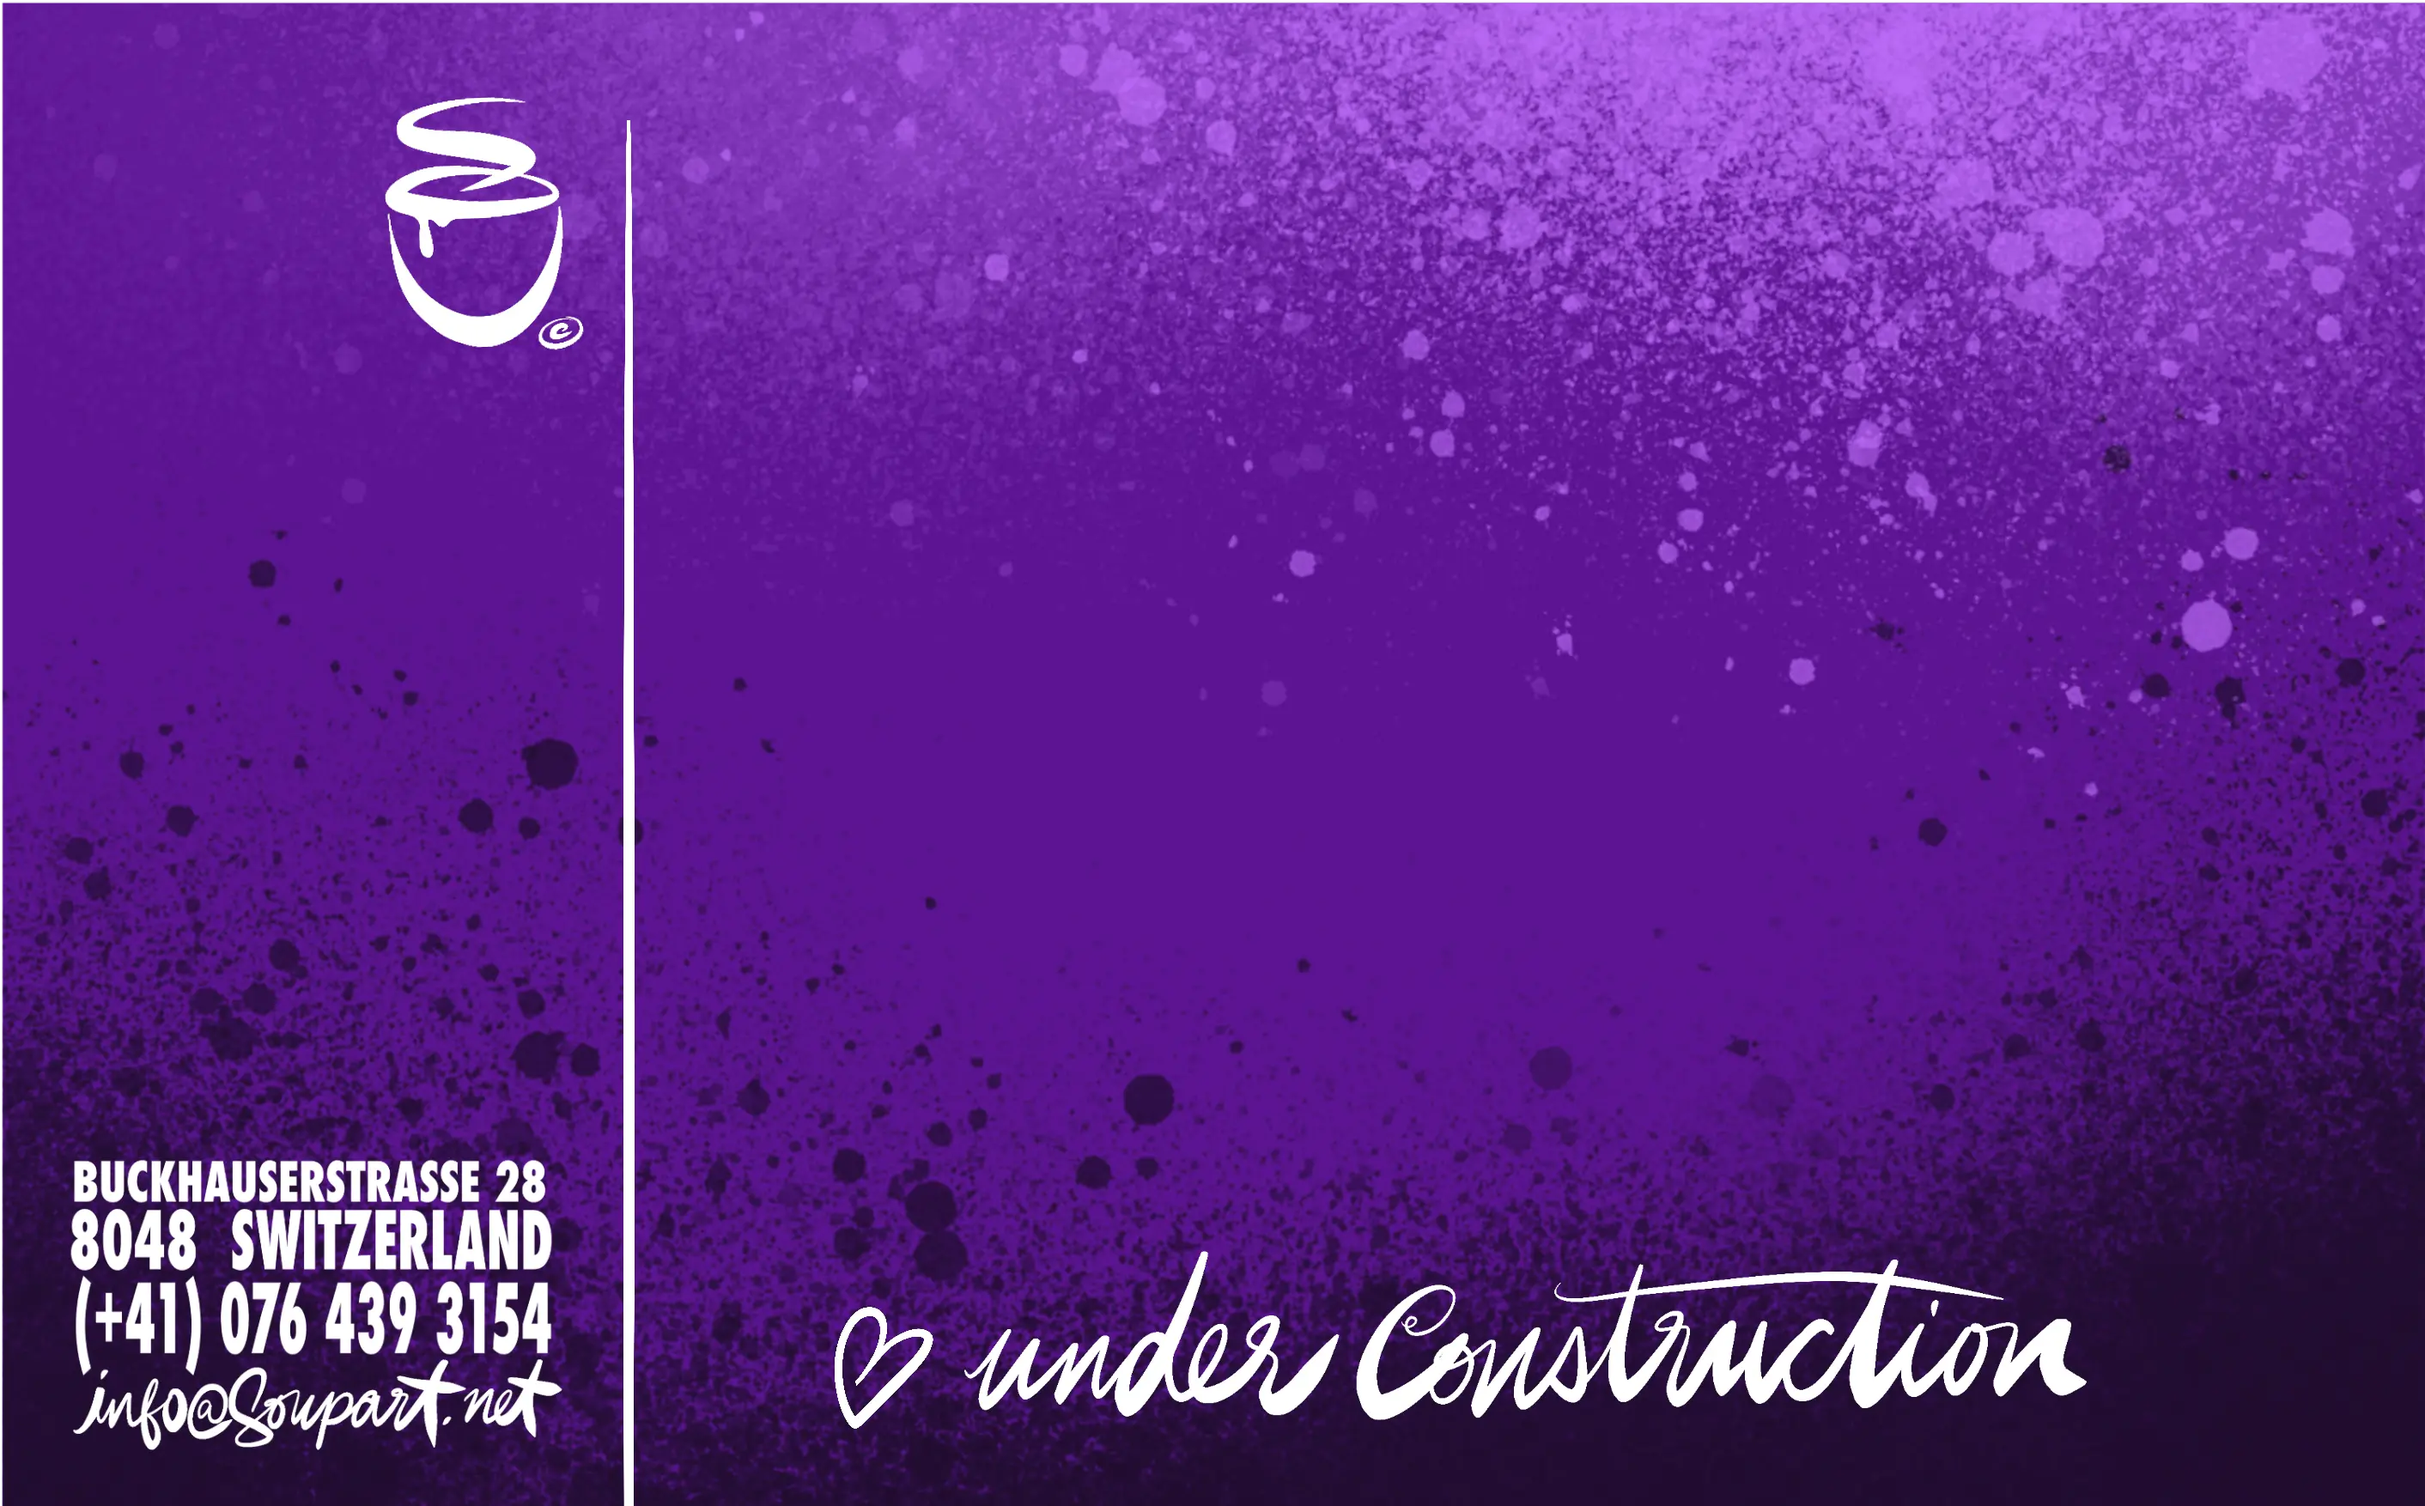
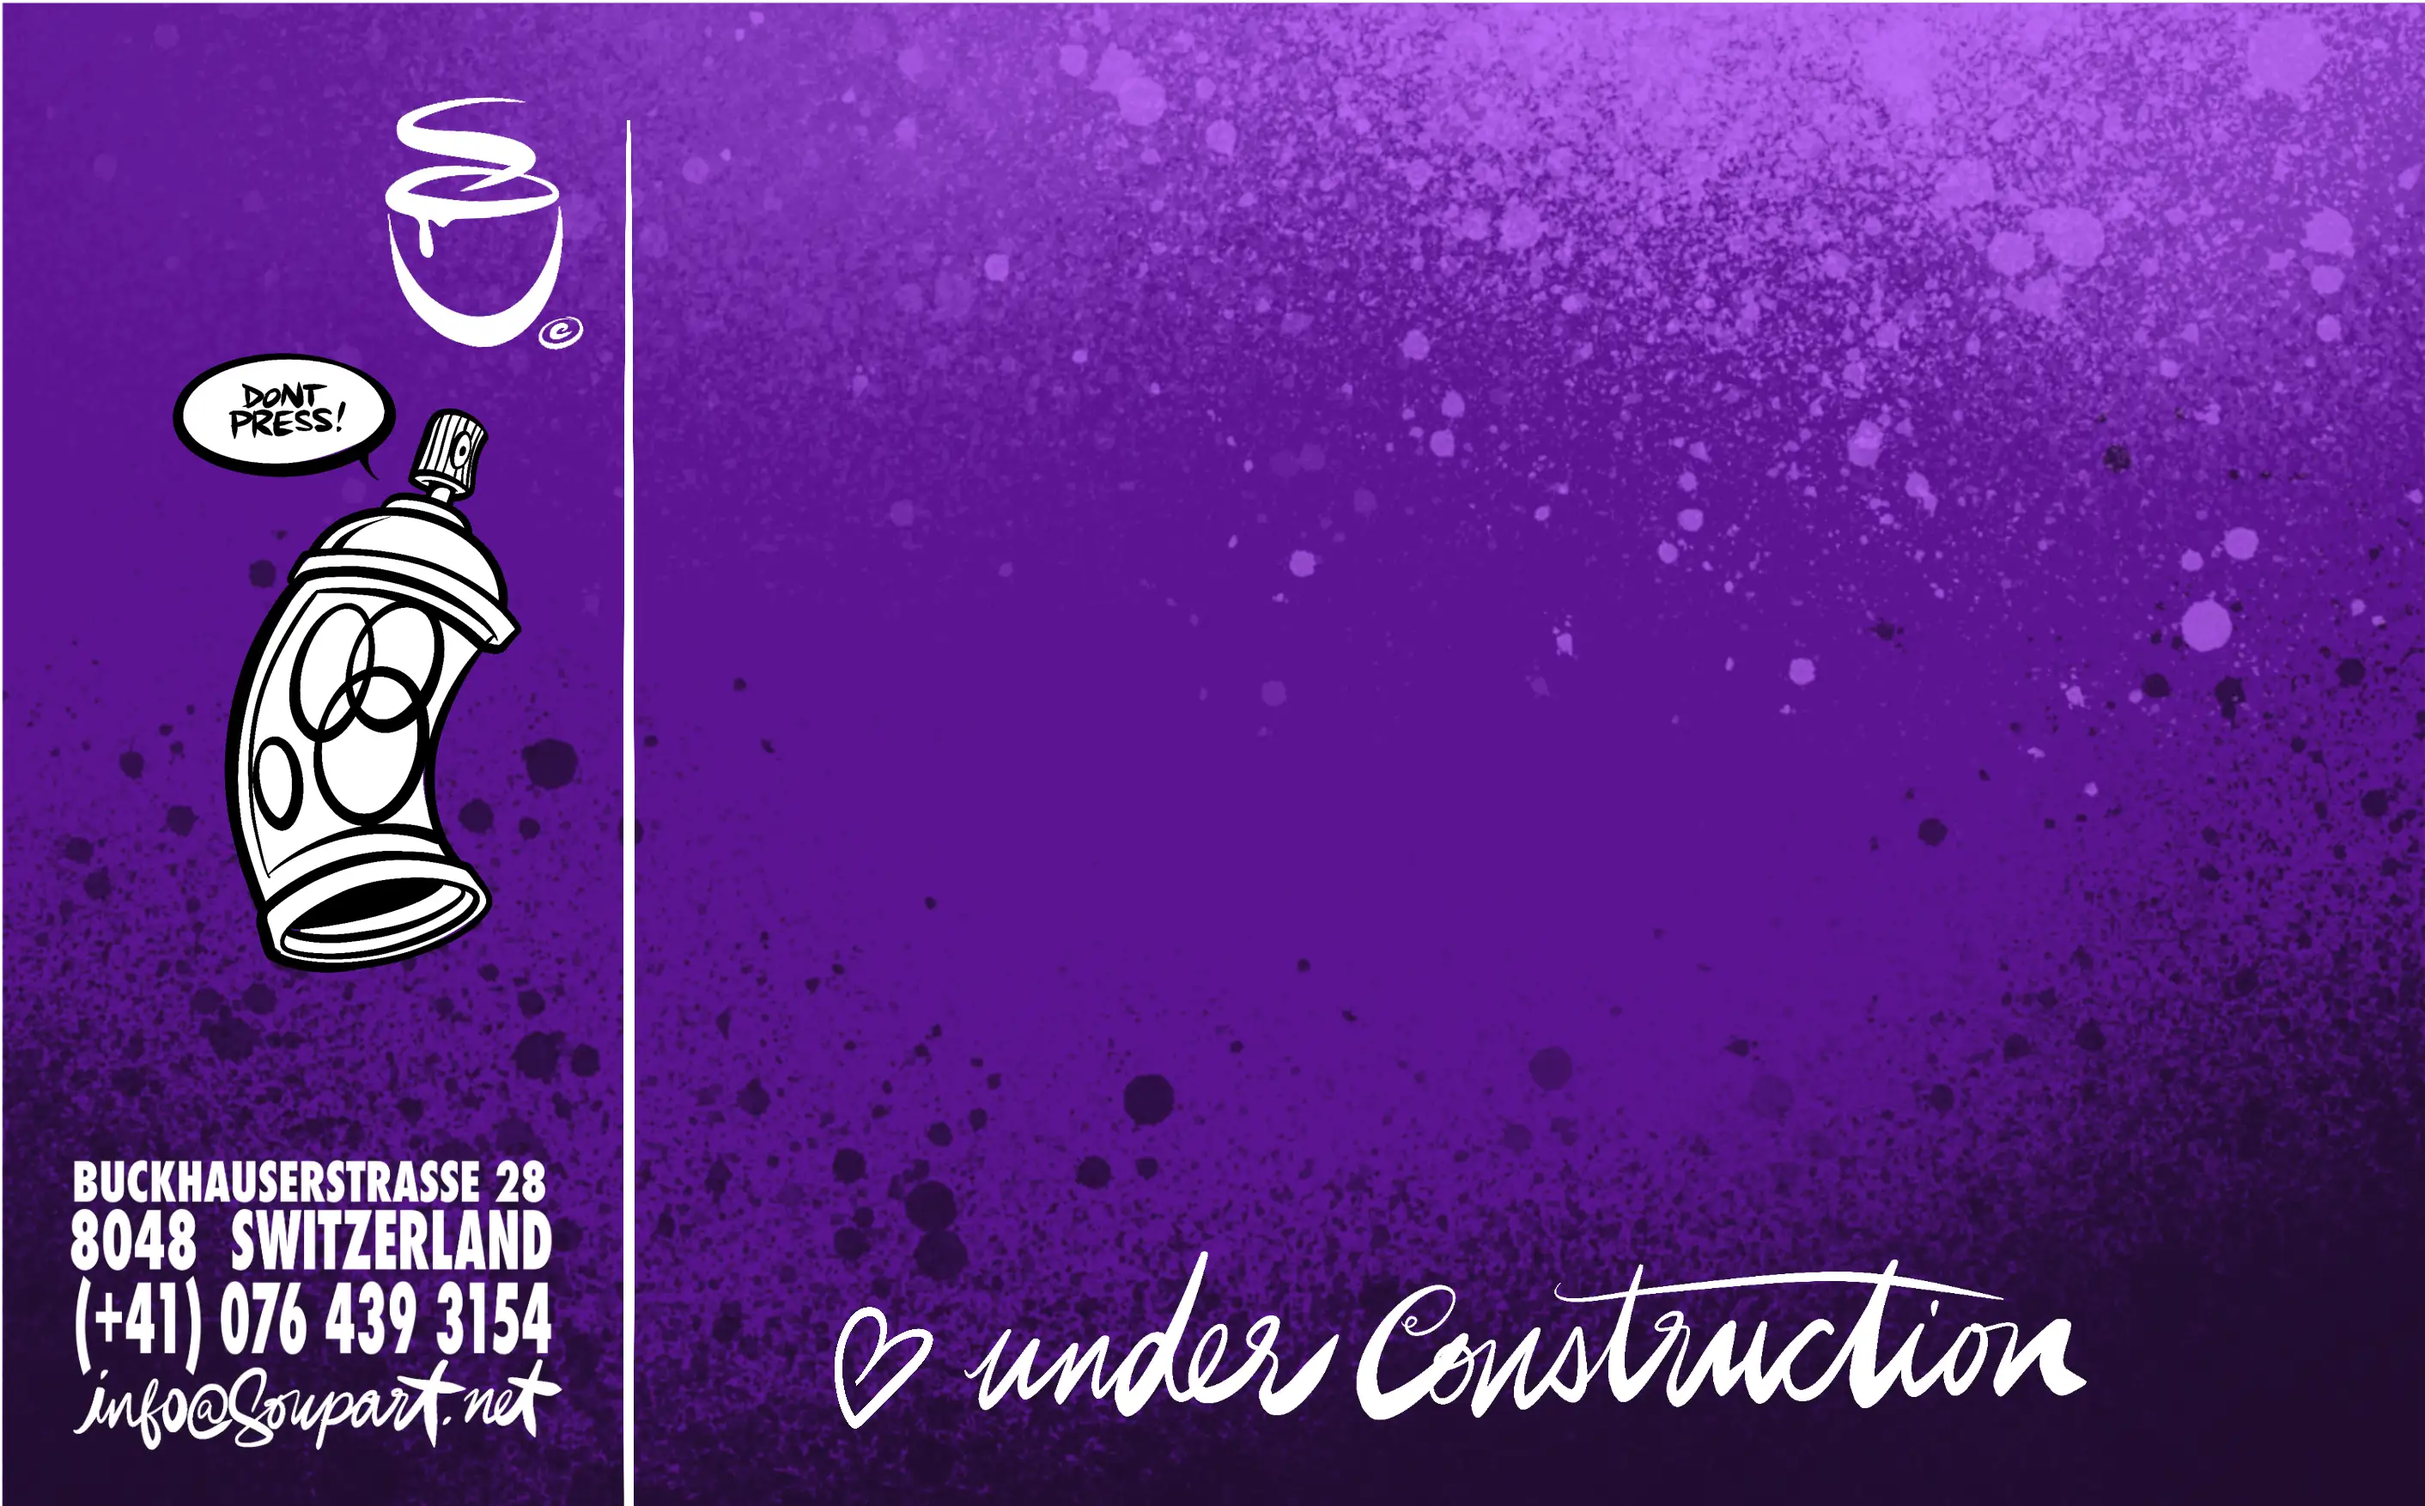
Final.

Changed region(s): [[0.0623, 0.2155, 0.2181, 0.6465]]

diff --git a/home.html b/home.html
@@ -5,10 +5,21 @@
     <title>Soup Art</title>
     <link rel="icon" type="image/x-icon" href="img/favicon.ico"/>
     <link rel="stylesheet" href="style/layout.css">
+    <link rel="preload" as="image" href="img/spray/0.webp">
+    <link rel="preload" as="image" href="img/spray/1.webp">
+    <link rel="preload" as="image" href="img/spray/2.webp">
+    <link rel="preload" as="image" href="img/spray/3.webp">
+    <link rel="preload" as="image" href="img/spray/4.webp">
+    <link rel="preload" as="image" href="img/spray/5.webp">
+    <link rel="preload" as="image" href="img/spray/6.webp">
+    <link rel="preload" as="image" href="img/spray/7.webp">
+    <link rel="preload" as="image" href="img/spray/8.webp">
+    <link rel="preload" as="image" href="img/spray/9.webp">
 </head>
 <body>
 <div class="image-container">
-    <img src="img/background.webp" alt="">
+    <img id="main-image" src="img/background.webp" alt="">
 </div>
+<script src="script/orientation/timer.js"></script>
 </body>
 </html>

diff --git a/script/orientation/timer.js b/script/orientation/timer.js
@@ -1,0 +1,17 @@
+const image = document.getElementById('main-image');
+const originalSrc = 'img/background.webp';
+let resetTimer = null;
+
+image.addEventListener('click', () => {
+    const randomIndex = Math.floor(Math.random() * 10);
+    image.src = `img/spray/${randomIndex}.webp`;
+
+    if (resetTimer) {
+        clearTimeout(resetTimer);
+    }
+
+    resetTimer = setTimeout(() => {
+        image.src = originalSrc;
+        resetTimer = null;
+    }, 5000);
+});
